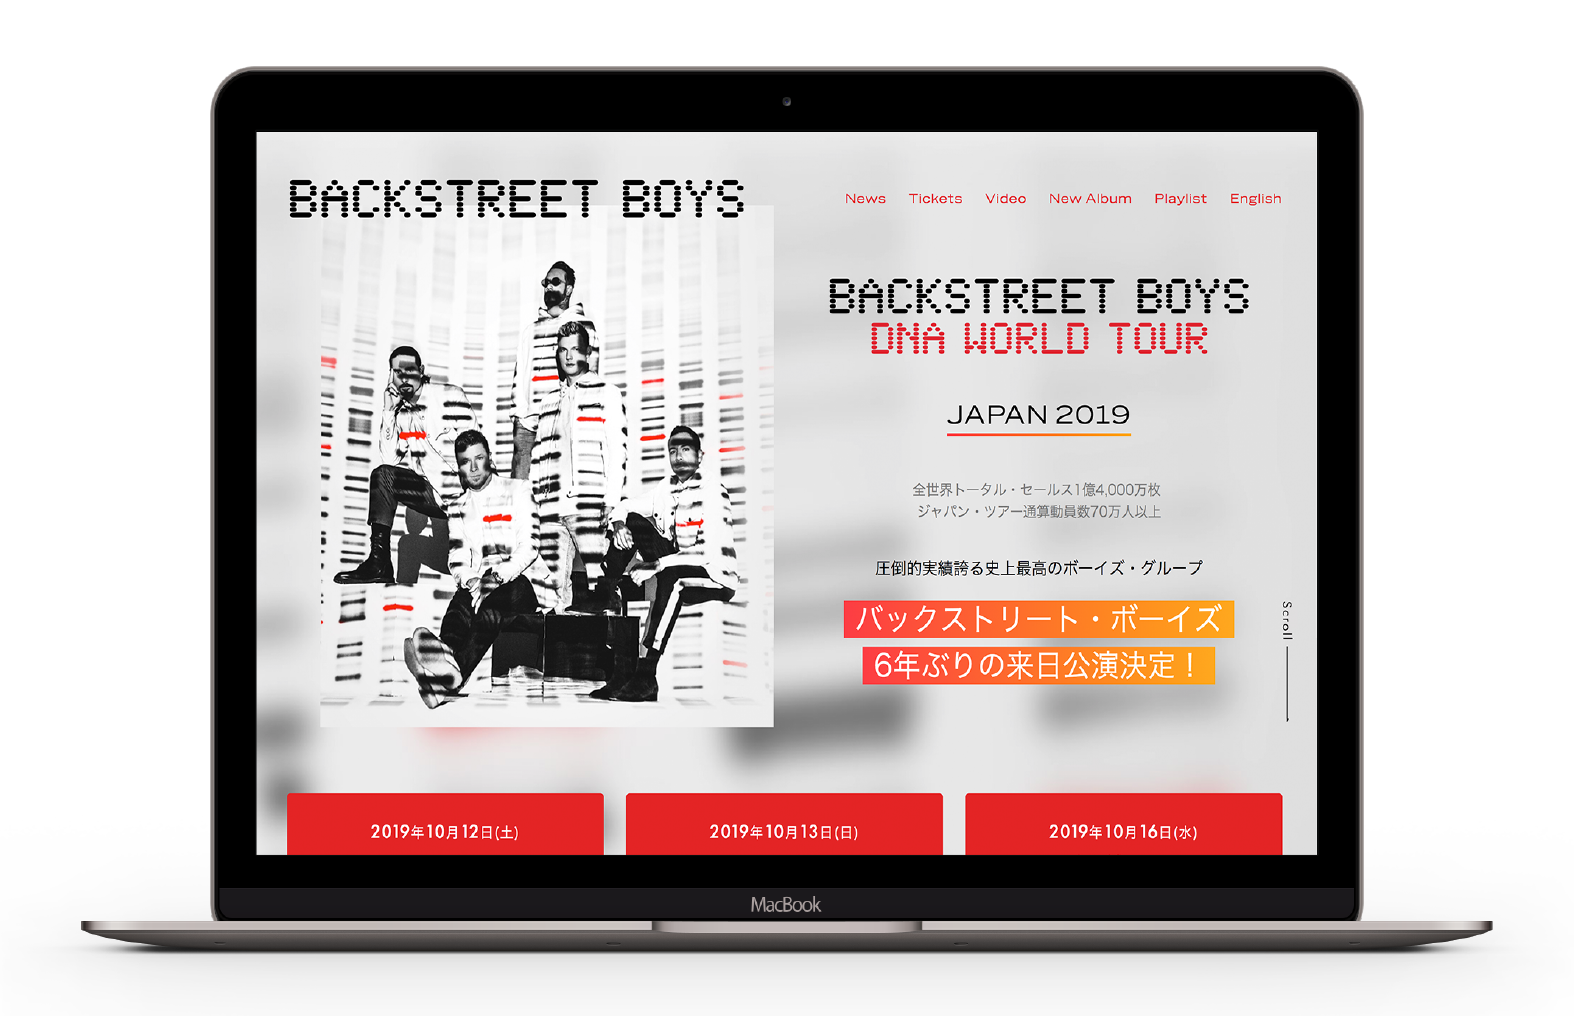
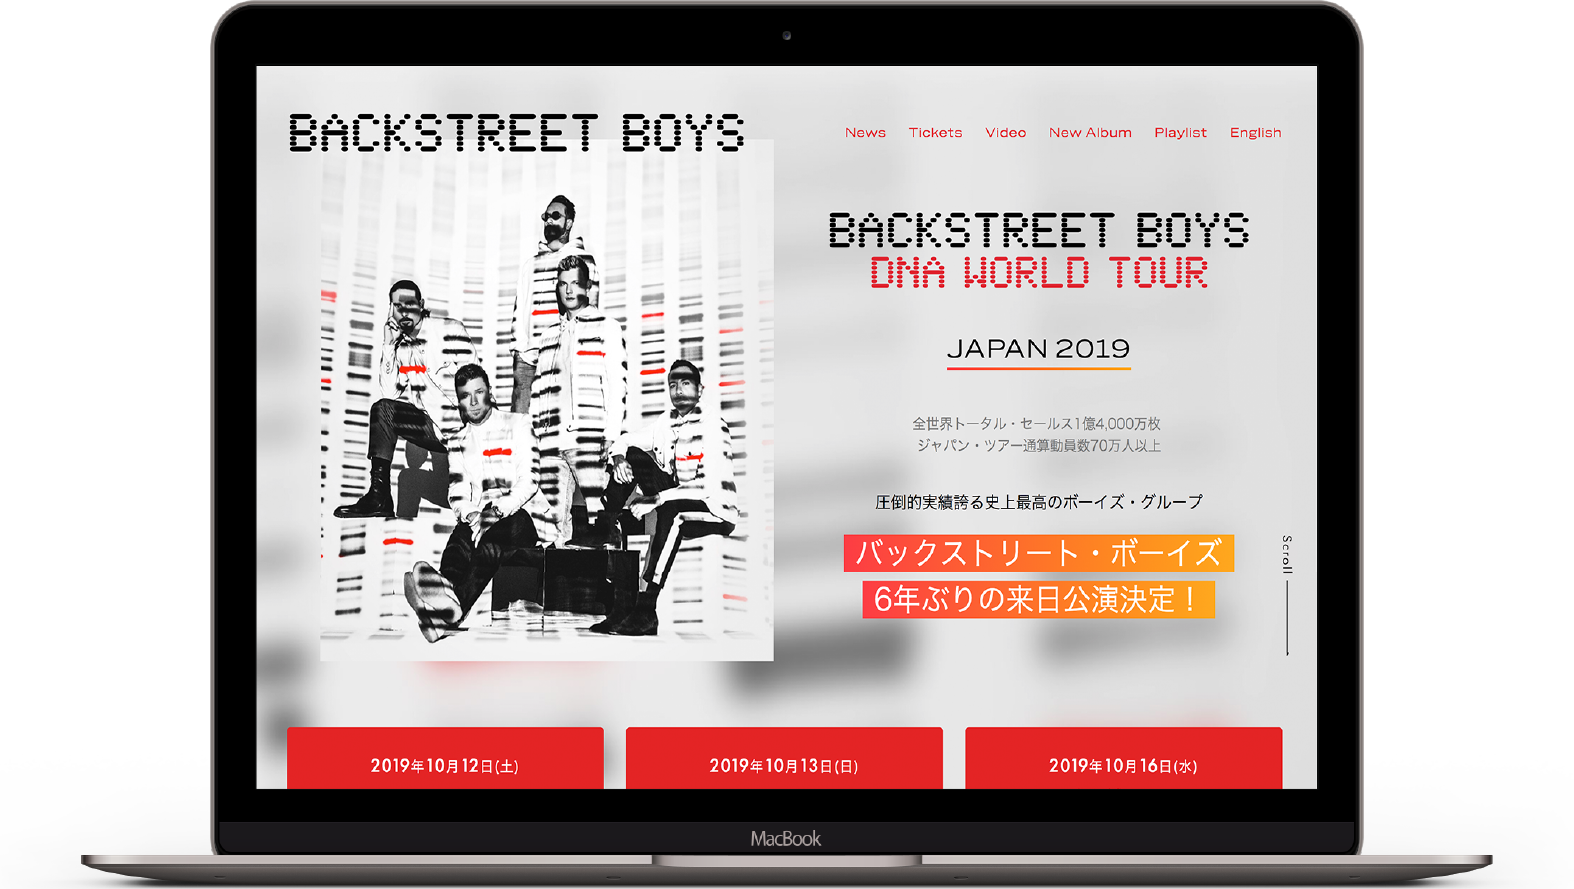
live nation

diff --git a/pages/i-work-livenation.html b/pages/i-work-livenation.html
@@ -54,10 +54,10 @@ sections:
     content: |
         <hr class="hr" />       
 -
-    class: 'section--padding section--white section--padding--pinch section--center typography u--no-gutter-bottom u--no-gutter-top'
+    class: 'section--padding section--white section--padding--pinch section--center typography u--no-gutter-top u--no-gutter-bottom'
     template: sections/section.html
     content: |
-        <div class="section__center">
+        <div class="section__center u--img-pad">
             <div class="image-holder">
                 <img id="js-gallery-image" src="/assets/img/case-studies/livenation/laptop_download-japan_large.png" alt="">
             </div>
@@ -68,10 +68,10 @@ sections:
             <p>In a world increasingly choosing online as the shopping experience of choice, LDO are bucking the national highstreet trends. WIth seasonal focused experiential driving activity throughout the outlet, it’s a leisure first retail approach that creates value. Combined with a simplfied, fashion led OOH campaign, we’re driving awareness, engagment &amp; credibility in a highly competitive market.</p>
         </div>
 -
-    class: 'section--padding section--yellow section--white-triangle section--white section--padding--pinch section--center typography u--no-gutter-bottom u--no-gutter-top'
+    class: 'section--padding section--yellow section--white-triangle section--white section--padding--pinch section--center typography u--no-gutter-top u--no-gutter-bottom'
     template: sections/section.html
     content: |
-        <div class="section__center">
+        <div class="section__center u--img-pad">
             <img src="/assets/img/case-studies/livenation/laptop_bb.png" alt="">
         </div>
         <div class="section__stats u--padding-bottom">

diff --git a/_site/work/livenation/index.html b/_site/work/livenation/index.html
@@ -11,7 +11,7 @@
 <link rel="icon" type="image/png" href="/assets/img/favicon.png" />
 
 <script src="https://use.fontawesome.com/610695cb43.js"></script>
-<link rel="stylesheet" href="/assets/main.css?1560857859">
+<link rel="stylesheet" href="/assets/main.css?1560858488">
 
 <meta name="twitter:card" content="summary_large_image">
 <meta name="twitter:site" content="@" />
@@ -127,9 +127,9 @@
 
         
             
-    <section class="section section--padding section--white section--padding--pinch section--center typography u--no-gutter-bottom u--no-gutter-top">
+    <section class="section section--padding section--white section--padding--pinch section--center typography u--no-gutter-top u--no-gutter-bottom">
 
-    <div class="section__center">
+    <div class="section__center u--img-pad">
     <div class="image-holder">
         <img id="js-gallery-image" src="/assets/img/case-studies/livenation/laptop_download-japan_large.png" alt="">
     </div>
@@ -143,9 +143,9 @@
 </section>
         
             
-    <section class="section section--padding section--yellow section--white-triangle section--white section--padding--pinch section--center typography u--no-gutter-bottom u--no-gutter-top">
+    <section class="section section--padding section--yellow section--white-triangle section--white section--padding--pinch section--center typography u--no-gutter-top u--no-gutter-bottom">
 
-    <div class="section__center">
+    <div class="section__center u--img-pad">
     <img src="/assets/img/case-studies/livenation/laptop_bb.png" alt="">
 </div>
 <div class="section__stats u--padding-bottom">

diff --git a/_site/404.html b/_site/404.html
@@ -11,7 +11,7 @@
 <link rel="icon" type="image/png" href="/assets/img/favicon.png" />
 
 <script src="https://use.fontawesome.com/610695cb43.js"></script>
-<link rel="stylesheet" href="/assets/main.css?1560857859">
+<link rel="stylesheet" href="/assets/main.css?1560858488">
 
 <meta name="twitter:card" content="summary_large_image">
 <meta name="twitter:site" content="@" />

diff --git a/_site/about/index.html b/_site/about/index.html
@@ -11,7 +11,7 @@
 <link rel="icon" type="image/png" href="/assets/img/favicon.png" />
 
 <script src="https://use.fontawesome.com/610695cb43.js"></script>
-<link rel="stylesheet" href="/assets/main.css?1560857859">
+<link rel="stylesheet" href="/assets/main.css?1560858488">
 
 <meta name="twitter:card" content="summary_large_image">
 <meta name="twitter:site" content="@" />

diff --git a/_site/careers/index.html b/_site/careers/index.html
@@ -11,7 +11,7 @@
 <link rel="icon" type="image/png" href="/assets/img/favicon.png" />
 
 <script src="https://use.fontawesome.com/610695cb43.js"></script>
-<link rel="stylesheet" href="/assets/main.css?1560857859">
+<link rel="stylesheet" href="/assets/main.css?1560858488">
 
 <meta name="twitter:card" content="summary_large_image">
 <meta name="twitter:site" content="@" />

diff --git a/_site/contact/index.html b/_site/contact/index.html
@@ -11,7 +11,7 @@
 <link rel="icon" type="image/png" href="/assets/img/favicon.png" />
 
 <script src="https://use.fontawesome.com/610695cb43.js"></script>
-<link rel="stylesheet" href="/assets/main.css?1560857859">
+<link rel="stylesheet" href="/assets/main.css?1560858488">
 
 <meta name="twitter:card" content="summary_large_image">
 <meta name="twitter:site" content="@" />

diff --git a/_site/cookies-and-privacy/index.html b/_site/cookies-and-privacy/index.html
@@ -11,7 +11,7 @@
 <link rel="icon" type="image/png" href="/assets/img/favicon.png" />
 
 <script src="https://use.fontawesome.com/610695cb43.js"></script>
-<link rel="stylesheet" href="/assets/main.css?1560857859">
+<link rel="stylesheet" href="/assets/main.css?1560858488">
 
 <meta name="twitter:card" content="summary_large_image">
 <meta name="twitter:site" content="@" />

diff --git a/_site/culture/index.html b/_site/culture/index.html
@@ -11,7 +11,7 @@
 <link rel="icon" type="image/png" href="/assets/img/favicon.png" />
 
 <script src="https://use.fontawesome.com/610695cb43.js"></script>
-<link rel="stylesheet" href="/assets/main.css?1560857859">
+<link rel="stylesheet" href="/assets/main.css?1560858488">
 
 <meta name="twitter:card" content="summary_large_image">
 <meta name="twitter:site" content="@" />

diff --git a/_site/index.html b/_site/index.html
@@ -11,7 +11,7 @@
 <link rel="icon" type="image/png" href="/assets/img/favicon.png" />
 
 <script src="https://use.fontawesome.com/610695cb43.js"></script>
-<link rel="stylesheet" href="/assets/main.css?1560857859">
+<link rel="stylesheet" href="/assets/main.css?1560858488">
 
 <meta name="twitter:card" content="summary_large_image">
 <meta name="twitter:site" content="@" />

diff --git a/_site/pong/index.html b/_site/pong/index.html
@@ -11,7 +11,7 @@
 <link rel="icon" type="image/png" href="/assets/img/favicon.png" />
 
 <script src="https://use.fontawesome.com/610695cb43.js"></script>
-<link rel="stylesheet" href="/assets/main.css?1560857859">
+<link rel="stylesheet" href="/assets/main.css?1560858488">
 
 <meta name="twitter:card" content="summary_large_image">
 <meta name="twitter:site" content="@" />

diff --git a/_site/principles/index.html b/_site/principles/index.html
@@ -11,7 +11,7 @@
 <link rel="icon" type="image/png" href="/assets/img/favicon.png" />
 
 <script src="https://use.fontawesome.com/610695cb43.js"></script>
-<link rel="stylesheet" href="/assets/main.css?1560857859">
+<link rel="stylesheet" href="/assets/main.css?1560858488">
 
 <meta name="twitter:card" content="summary_large_image">
 <meta name="twitter:site" content="@" />

diff --git a/_site/rebrand/index.html b/_site/rebrand/index.html
@@ -11,7 +11,7 @@
 <link rel="icon" type="image/png" href="/assets/img/favicon.png" />
 
 <script src="https://use.fontawesome.com/610695cb43.js"></script>
-<link rel="stylesheet" href="/assets/main.css?1560857859">
+<link rel="stylesheet" href="/assets/main.css?1560858488">
 
 <meta name="twitter:card" content="summary_large_image">
 <meta name="twitter:site" content="@" />
